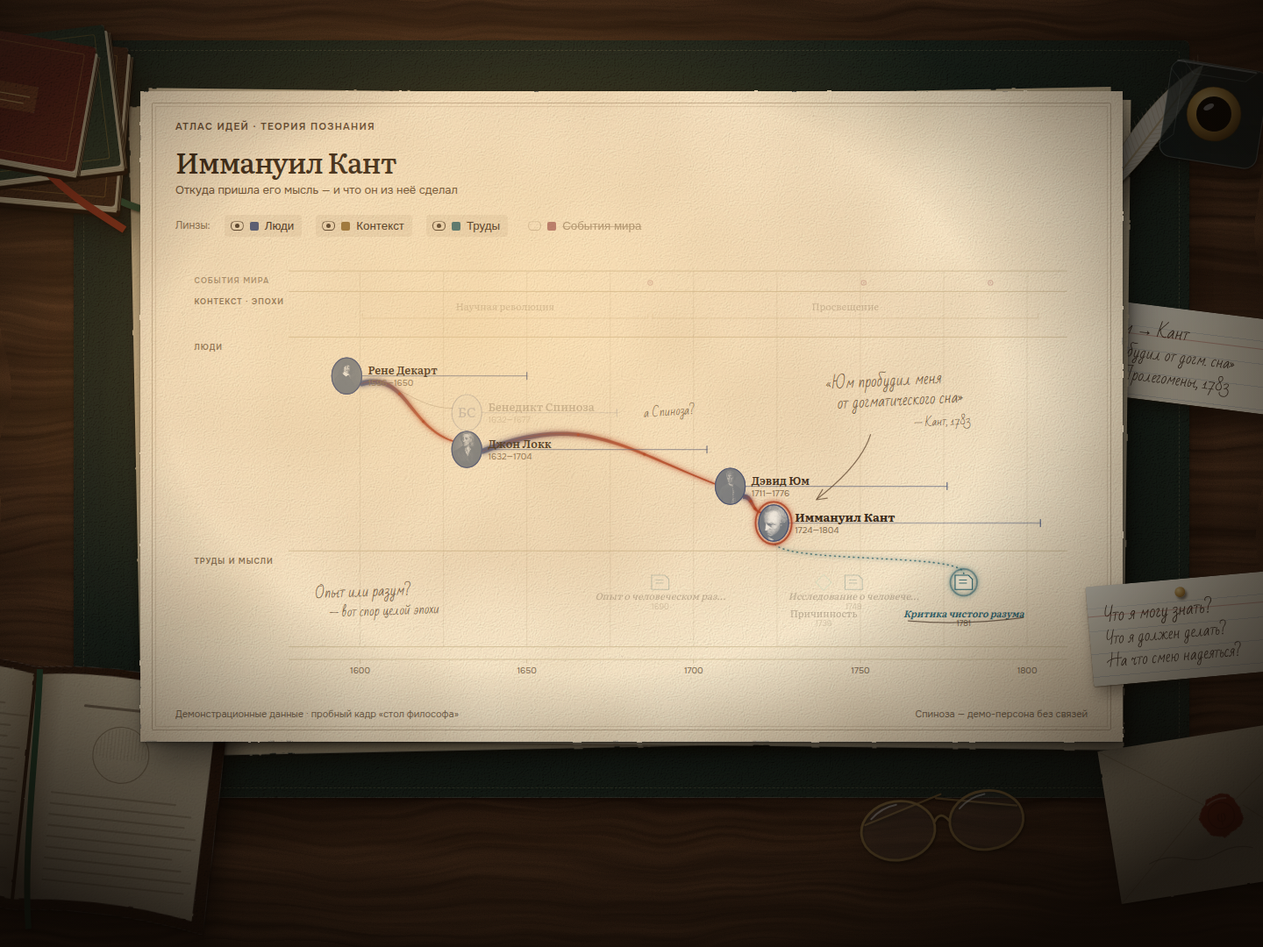
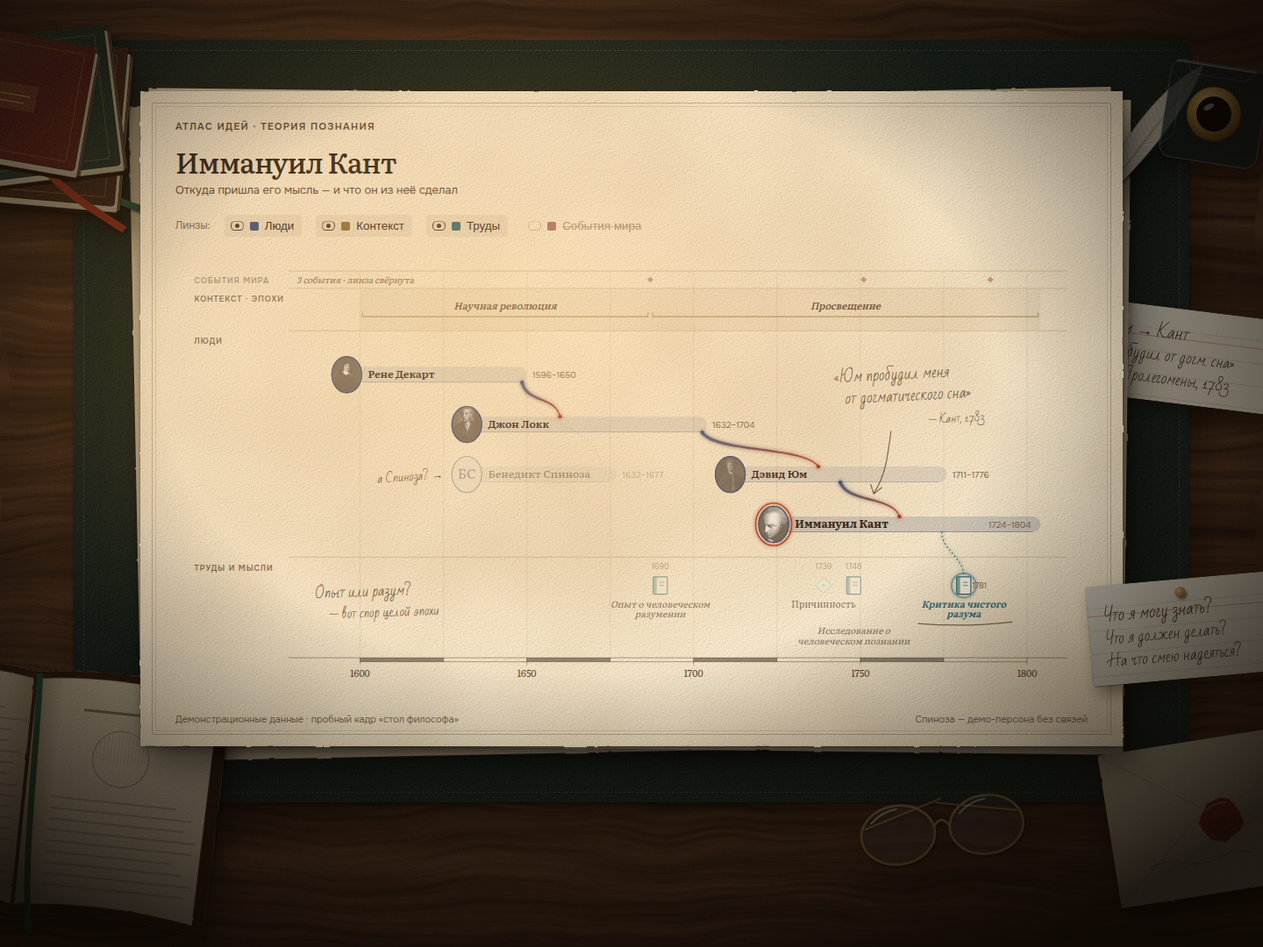
design(cycle-1): ленты Пристли, влияния между лентами, гравированная линейка
Прогон 1 цикла доводки сцены «стол философа»: линии жизни → ленты с именем
внутри (текст больше не перечёркнут), влияния цепляются к лентам вне подписей,
упаковка дорожек по Пристли, значки-книги и перенос названий без коллизий,
масштабная линейка карты вместо двойной оси, читаемый контекст.
Проверка Playwright: 0 JS-ошибок, 0 пересечений подпись×линия. Журнал —
graph-page-qa/design-cycle-log.md.

diff --git a/docs/design/system/previews/graph-f02-lenses/desk-chart.js b/docs/design/system/previews/graph-f02-lenses/desk-chart.js
@@ -1,0 +1,165 @@
+/* Граф на рабочем листе сцены «стол философа». Статичный кадр: выбран Кант.
+   Линии жизни — ленты Пристли (имя внутри ленты), влияния цепляются к лентам вне подписей,
+   труды — значки книг с подписями без столкновений, ось — гравированная масштабная линейка. */
+(function(){
+  const NS='http://www.w3.org/2000/svg';
+  const W=1160,H=566,PLOT_L=150,PLOT_R=W-26,PLOT_W=PLOT_R-PLOT_L;
+  const Y0=1580,Y1=1812,X=y=>PLOT_L+(y-Y0)/(Y1-Y0)*PLOT_W;
+  const bands={
+    events:{top:28,bot:50,label:'События мира',collapsed:true},
+    eras:  {top:50,bot:104,label:'Контекст · эпохи'},
+    people:{top:104,bot:392,label:'Люди'},
+    works: {top:392,bot:520,label:'Труды и мысли'},
+  };
+  const SEL='kant';
+  const people=[
+    {id:'descartes',lane:0,name:'Рене Декарт',     mono:'РД',birth:1596,death:1650,portrait:'descartes.jpg'},
+    {id:'spinoza',lane:2,  name:'Бенедикт Спиноза',mono:'БС',birth:1632,death:1677,portrait:null},
+    {id:'locke',lane:1,    name:'Джон Локк',       mono:'ДЛ',birth:1632,death:1704,portrait:'locke.jpg'},
+    {id:'hume',lane:2,     name:'Дэвид Юм',        mono:'ДЮ',birth:1711,death:1776,portrait:'hume.jpg'},
+    {id:'kant',lane:3,     name:'Иммануил Кант',   mono:'ИК',birth:1724,death:1804,portrait:'kant.jpg'},
+  ];
+  const chain=new Set(['descartes','locke','hume','kant']);
+  const influences=[
+    {a:'descartes',b:'locke',active:true},{a:'locke',b:'hume',active:true},
+    {a:'hume',b:'kant',active:true},{a:'descartes',b:'spinoza',active:false},
+  ];
+  const works=[
+    {id:'essay',title:'Опыт о человеческом разумении',year:1690,author:'locke',kind:'work'},
+    {id:'causality',title:'Причинность',year:1739,author:'hume',kind:'concept'},
+    {id:'enquiry',title:'Исследование о человеческом познании',year:1748,author:'hume',kind:'work'},
+    {id:'critique',title:'Критика чистого разума',year:1781,author:'kant',kind:'work',active:true},
+  ];
+  const eras=[{label:'Научная революция',from:1600,to:1687},{label:'Просвещение',from:1687,to:1804}];
+  const events=[{year:1687},{year:1751},{year:1789}];
+
+  const RX=19,RY=23,BAND=20;
+  const S=(t,a,txt)=>{const e=document.createElementNS(NS,t);for(const k in a)e.setAttribute(k,a[k]);if(txt!=null)e.textContent=txt;return e;};
+  const svg=document.getElementById('svg');svg.setAttribute('viewBox',`0 0 ${W} ${H}`);
+  // упаковка дорожек по Пристли: не пересекающиеся во времени жизни делят дорожку
+  const LANES=Math.max(...people.map(p=>p.lane))+1;
+  const laneY=i=>bands.people.top+24+(i+.5)*((bands.people.bot-bands.people.top-34)/LANES);
+  people.forEach((p,i)=>{p.y=laneY(p.lane);p.bx=X(p.birth);p.dx=X(p.death);});
+  const byId=Object.fromEntries(people.map(p=>[p.id,p]));
+
+  /* ---------- defs ---------- */
+  const defs=S('defs',{});
+  const duo=S('filter',{id:'duo'});duo.append(S('feColorMatrix',{type:'saturate',values:'0'}));
+  const ct=S('feComponentTransfer',{});[['R','.16 .95'],['G','.13 .92'],['B','.10 .84']].forEach(([c,v])=>ct.append(S('feFunc'+c,{type:'table',tableValues:v})));
+  duo.append(ct);defs.append(duo);
+  const glow=S('filter',{id:'glow',x:'-60%',y:'-60%',width:'220%',height:'220%'});
+  glow.append(S('feGaussianBlur',{in:'SourceGraphic',stdDeviation:'2.6',result:'b'}));
+  const fm=S('feMerge',{});fm.append(S('feMergeNode',{in:'b'}));fm.append(S('feMergeNode',{in:'SourceGraphic'}));glow.append(fm);defs.append(glow);
+  people.forEach(p=>{const cp=S('clipPath',{id:'clip-'+p.id});cp.append(S('ellipse',{cx:p.bx,cy:p.y,rx:RX,ry:RY}));defs.append(cp);});
+  svg.append(defs);
+
+  const L={};['grid','bands','eras','events','bandsP','threads','works','people','axis','notes'].forEach(k=>{L[k]=S('g',{});svg.append(L[k]);});
+
+  /* ---------- сетка времени и страты ---------- */
+  for(let y=1600;y<=1800;y+=25){const x=X(y);L.grid.append(S('line',{x1:x,y1:bands.events.top,x2:x,y2:bands.works.bot,class:'time-grid'}));}
+  ['events','eras','people','works'].forEach(k=>{const b=bands[k];
+    L.bands.append(S('line',{x1:PLOT_L-6,y1:b.top,x2:PLOT_R,y2:b.top,class:'band-sep'}));
+    L.bands.append(S('text',{x:24,y:b.top+(b.collapsed?15:17),class:'band-label','fill-opacity':b.collapsed?.7:1},b.label));});
+
+  /* ---------- эпохи: фон-территории, не приглушаем ---------- */
+  eras.forEach(e=>{const x1=X(e.from),x2=X(e.to),y=bands.eras.top+36;
+    L.eras.append(S('rect',{x:x1,y:bands.eras.top+1,width:x2-x1,height:bands.eras.bot-bands.eras.top-2,fill:'var(--context)',opacity:.07}));
+    L.eras.append(S('path',{d:`M${x1+3},${y-5} L${x1+3},${y} L${x2-3},${y} L${x2-3},${y-5}`,class:'era-span'}));
+    L.eras.append(S('text',{x:(x1+x2)/2,y:y-9,class:'era-text'},e.label));});
+
+  /* ---------- свёрнутая линза ---------- */
+  const ey=(bands.events.top+bands.events.bot)/2;
+  events.forEach(e=>{const x=X(e.year);L.events.append(S('path',{d:`M${x} ${ey-4} L${x+4} ${ey} L${x} ${ey+4} L${x-4} ${ey} Z`,fill:'var(--history)','fill-opacity':.45}));});
+  L.events.append(S('text',{x:PLOT_L+4,y:ey+4,class:'collapsed-note'},'3 события · линза свёрнута'));
+
+  /* ---------- люди: ленты Пристли ---------- */
+  people.forEach(p=>{
+    const sel=p.id===SEL,inC=chain.has(p.id);
+    const g=S('g',inC?{}:{class:'dim'});
+    g.append(S('rect',{x:p.bx,y:p.y-BAND/2,width:p.dx-p.bx,height:BAND,rx:BAND/2,fill:'var(--people)','fill-opacity':sel?.2:.12}));
+    g.append(S('path',{d:`M${p.bx+RX} ${p.y+BAND/2-.5} H${p.dx-BAND/2}`,stroke:'var(--people)','stroke-opacity':sel?.45:.28,'stroke-width':1}));
+    const name=S('text',{x:p.bx+RX+8,y:p.y+4.6,class:sel?'sel-name':'person-name'},p.name);g.append(name);
+    const yrIn=p.dx+74>W-4;g.append(S('text',{x:yrIn?p.dx-12:p.dx+7,y:p.y+4,class:'person-years','text-anchor':yrIn?'end':'start'},`${p.birth}–${p.death}`));
+    if(sel)g.append(S('ellipse',{cx:p.bx,cy:p.y,rx:RX+4,ry:RY+4,fill:'none',stroke:'var(--graph-selected)','stroke-width':1.8,'stroke-opacity':.85,filter:'url(#glow)'}));
+    g.append(S('ellipse',{cx:p.bx,cy:p.y,rx:RX,ry:RY,class:'medallion-ring'}));
+    if(p.portrait){g.append(S('image',{href:'../graph-f02/assets/'+p.portrait,x:p.bx-RX,y:p.y-RY,width:RX*2,height:RY*2,preserveAspectRatio:'xMidYMid slice','clip-path':`url(#clip-${p.id})`,filter:'url(#duo)'}));
+                   g.append(S('ellipse',{cx:p.bx,cy:p.y,rx:RX,ry:RY,fill:'none',stroke:'var(--people)','stroke-width':1.2}));}
+    else g.append(S('text',{x:p.bx,y:p.y+6,class:'monogram'},p.mono));
+    L.people.append(g);
+    p.labelEnd=p.bx+RX+8+name.getComputedTextLength();
+  });
+
+  /* ---------- влияния: от ленты учителя к ленте ученика, вне подписей ---------- */
+  const cub=(P,t)=>{const u=1-t;return{x:u*u*u*P[0].x+3*u*u*t*P[1].x+3*u*t*t*P[2].x+t*t*t*P[3].x,y:u*u*u*P[0].y+3*u*u*t*P[1].y+3*u*t*t*P[2].y+t*t*t*P[3].y};};
+  const tan=(P,t)=>{const u=1-t;return{x:3*u*u*(P[1].x-P[0].x)+6*u*t*(P[2].x-P[1].x)+3*t*t*(P[3].x-P[2].x),y:3*u*u*(P[1].y-P[0].y)+6*u*t*(P[2].y-P[1].y)+3*t*t*(P[3].y-P[2].y)};};
+  const ribbon=(P,w0,w1,N=28)=>{const a=[],b=[];for(let i=0;i<=N;i++){const t=i/N,p=cub(P,t),d=tan(P,t),l=Math.hypot(d.x,d.y)||1,nx=-d.y/l,ny=d.x/l,w=(w0*(1-t)+w1*t)/2;a.push(`${(p.x+nx*w).toFixed(1)},${(p.y+ny*w).toFixed(1)}`);b.unshift(`${(p.x-nx*w).toFixed(1)},${(p.y-ny*w).toFixed(1)}`);}return 'M'+a.join(' L')+' L'+b.join(' L')+' Z';};
+  window.deskLayout={people:byId,threads:{}};
+  influences.forEach((e,i)=>{
+    const s=byId[e.a],t=byId[e.b],recv=t.birth+20;
+    const xs=X(Math.min(s.death,Math.max(recv,s.birth+12)));
+    const xt=Math.max(X(Math.max(recv,t.birth)),t.labelEnd+14);
+    const A={x:Math.min(xs,s.dx-6),y:s.y+BAND/2},B={x:xt,y:t.y-BAND/2},dy=B.y-A.y;
+    const P=[A,{x:A.x+(B.x-A.x)*.12,y:A.y+dy*.6},{x:B.x-(B.x-A.x)*.12,y:B.y-dy*.6},B];
+    window.deskLayout.threads[e.a+'-'+e.b]=cub(P,.5);
+    if(!e.active){L.threads.append(S('path',{d:`M${A.x},${A.y} C${P[1].x},${P[1].y} ${P[2].x},${P[2].y} ${B.x},${B.y}`,fill:'none',stroke:'var(--graph-ink-muted)','stroke-opacity':.35,'stroke-width':1,'stroke-dasharray':'2 3'}));return;}
+    const gid='dg'+i,lg=S('linearGradient',{id:gid,gradientUnits:'userSpaceOnUse',x1:A.x,y1:A.y,x2:B.x,y2:B.y});
+    lg.append(S('stop',{offset:'0%','stop-color':'var(--people)','stop-opacity':.8}));lg.append(S('stop',{offset:'100%','stop-color':'var(--graph-selected)','stop-opacity':.95}));defs.append(lg);
+    const g=S('g',{filter:'url(#glow)'});
+    g.append(S('path',{d:ribbon(P,4,1.2),fill:`url(#${gid})`}));
+    g.append(S('circle',{cx:A.x,cy:A.y,r:2.4,fill:'var(--people)'}));
+    g.append(S('circle',{cx:B.x,cy:B.y,r:2.4,fill:'var(--graph-selected)'}));
+    L.threads.append(g);
+  });
+
+  /* ---------- труды: значки, подписи без столкновений ---------- */
+  const my=bands.works.top+36,rowsEnd=[[],[]];
+  const items=[...works].sort((a,b)=>a.year-b.year);
+  items.forEach(it=>{
+    const x=X(it.year),au=byId[it.author];
+    const g=S('g',it.active?{}:{class:'dim-soft'});
+    if(it.kind==='work'){
+      g.append(S('rect',{x:x-9,y:my-11,width:18,height:22,rx:1.5,class:'work-mark',...(it.active?{'stroke-width':1.6}:{})}));
+      g.append(S('rect',{x:x-9,y:my-11,width:4.5,height:22,rx:1.2,fill:'var(--texts)','fill-opacity':.55}));
+      g.append(S('path',{d:`M${x-1} ${my-4} h6 M${x-1} ${my} h6`,stroke:'var(--texts)','stroke-width':1,'stroke-opacity':.8}));
+    } else {
+      g.append(S('path',{d:`M${x} ${my-10} L${x+10} ${my} L${x} ${my+10} L${x-10} ${my} Z`,class:'concept-mark'}));
+      g.append(S('circle',{cx:x,cy:my,r:2,fill:'var(--ideas)'}));
+    }
+    g.append(it.active?S('text',{x:x+20,y:my+4,class:'work-year','text-anchor':'start'},it.year):S('text',{x,y:my-21,class:'work-year','text-anchor':'middle'},it.year));
+    // подпись: перенос в 2 строки по ширине 124
+    const t=S('text',{x,class:it.active?'work-active-title':(it.kind==='work'?'work-title':'concept-title'),'text-anchor':'middle'});g.append(t);
+    L.works.append(g);
+    const words=it.title.split(' '),lines=[''];
+    words.forEach(w=>{const cand=(lines[lines.length-1]+' '+w).trim();t.textContent=cand;if(t.getComputedTextLength()>150&&lines[lines.length-1])lines.push(w);else lines[lines.length-1]=cand;});
+    t.textContent='';let maxW=0;
+    lines.forEach((ln,k)=>{const sp=S('tspan',{x,dy:k?13:0},ln);t.append(sp);});
+    maxW=t.getBBox().width;
+    const x0=x-maxW/2-6,x1=x+maxW/2+6;
+    const row=rowsEnd[0].every(([a,b])=>x1<a||x0>b)?0:1;rowsEnd[row].push([x0,x1]);
+    t.setAttribute('y',my+28+row*34);[...t.children].forEach((sp,k)=>{if(!k)sp.setAttribute('y',my+28+row*34);});
+    it.x=x;it.my=my;it.titleBox=t;
+    if(it.active){
+      L.works.insertBefore(S('circle',{cx:x,cy:my,r:15.5,fill:'none',stroke:'var(--texts)','stroke-width':1.8,'stroke-opacity':.5,filter:'url(#glow)'}),g);
+      const A={x:Math.min(Math.max(x-28,au.labelEnd+10),au.dx-10),y:au.y+BAND/2},B={x,y:my-13};
+      L.threads.append(S('path',{d:`M${A.x},${A.y} C${A.x},${A.y+22} ${B.x},${B.y-22} ${B.x},${B.y}`,fill:'none',stroke:'var(--texts)','stroke-width':1.5,'stroke-opacity':.85,'stroke-dasharray':'1 4','stroke-linecap':'round',filter:'url(#glow)'}));
+    }
+  });
+
+  /* ---------- ось: гравированная масштабная линейка ---------- */
+  const ay=bands.works.bot;
+  L.axis.append(S('line',{x1:PLOT_L-6,y1:ay,x2:PLOT_R,y2:ay,stroke:'var(--graph-ink)','stroke-opacity':.55,'stroke-width':.8}));
+  L.axis.append(S('line',{x1:X(1600),y1:ay+5,x2:X(1800),y2:ay+5,stroke:'var(--graph-ink)','stroke-opacity':.55,'stroke-width':.8}));
+  for(let y=1600,k=0;y<1800;y+=25,k++){if(k%2===0)L.axis.append(S('rect',{x:X(y),y:ay,width:X(y+25)-X(y),height:5,fill:'var(--graph-ink)','fill-opacity':.5}));}
+  for(let y=1600;y<=1800;y+=25){const x=X(y),maj=y%50===0;L.axis.append(S('line',{x1:x,y1:ay,x2:x,y2:ay+(maj?9:5),stroke:'var(--graph-ink)','stroke-opacity':.55,'stroke-width':.8}));
+    if(maj)L.axis.append(S('text',{x,y:ay+24,class:'axis-year'},y));}
+
+  /* ---------- рукописные пометки философа (от вычисленной раскладки) ---------- */
+  const hand=(x,y,s,txt,rot)=>L.notes.append(S('text',{x,y,class:'hand','font-size':s,transform:`rotate(${rot} ${x} ${y})`},txt));
+  const hs=(d)=>L.notes.append(S('path',{d,class:'hand-stroke'}));
+  hand(838,170,19,'«Юм пробудил меня',-3);hand(852,197,19,'от догматического сна»',-3);hand(958,222,14,'— Кант, 1783',-3);
+  const m=window.deskLayout.threads['hume-kant'];
+  hs(`M${910} ${232} C${906} ${262} ${m.x+20} ${m.y-30} ${m.x+5} ${m.y-8}`);hs(`M${m.x+1} ${m.y-19} L${m.x+5} ${m.y-7} L${m.x+15} ${m.y-15}`);
+  const sp=byId.spinoza;L.notes.append(S('text',{x:sp.bx-30,y:sp.y+5,class:'hand','font-size':15,'text-anchor':'end',transform:`rotate(-4 ${sp.bx-30} ${sp.y+5})`},'а Спиноза? →'));
+  hand(178,bands.works.top+52,18,'Опыт или разум?',-2);hand(196,bands.works.top+78,16,'— вот спор целой эпохи',-2);
+  const cr=items.find(i=>i.active),bb=cr.titleBox.getBBox();hs(`M${bb.x-4} ${bb.y+bb.height+4} Q${bb.x+bb.width/2} ${bb.y+bb.height+9} ${bb.x+bb.width+6} ${bb.y+bb.height+2}`);
+})();

diff --git a/docs/design/system/previews/graph-f02-lenses/cycle/check.js b/docs/design/system/previews/graph-f02-lenses/cycle/check.js
@@ -1,0 +1,37 @@
+// Прогон цикла: рендер desk.html + проверки корректности. node cycle.js <tag>
+const {chromium}=require('playwright-core');const path=require('path');
+const URL='file://'+path.resolve('/root/ai-history-of-philosophy-platform/docs/design/system/previews/graph-f02-lenses/desk.html');
+const OUT=__dirname+'/out/';const tag=process.argv[2]||'run';
+(async()=>{
+ const b=await chromium.launch({executablePath:'/root/.cache/puppeteer/chrome/linux-148.0.7778.97/chrome-linux64/chrome',args:['--no-sandbox']});
+ const report={};
+ for(const [w,h] of [[1440,1080],[1280,900]]){
+  const p=await b.newPage({viewport:{width:w,height:h}});const errs=[];
+  p.on('pageerror',e=>errs.push('pageerror '+e.message));p.on('requestfailed',r=>errs.push('reqfail '+r.url()));
+  p.on('console',m=>{if(m.type()==='error')errs.push('console '+m.text());});
+  await p.goto(URL,{waitUntil:'networkidle'});
+  await p.evaluate(async()=>{await document.fonts.load('20px "Bad Script"','Юм');await document.fonts.ready;});
+  await p.waitForTimeout(600);
+  for(const theme of ['light','dark']){
+   await p.evaluate(t=>document.getElementById('app').dataset.theme=t,theme);await p.waitForTimeout(300);
+   await p.screenshot({path:`${OUT}${tag}-${w}-${theme}.png`,fullPage:true});
+  }
+  if(w===1440){
+   await p.evaluate(()=>document.getElementById('app').dataset.theme='light');await p.waitForTimeout(200);
+   const r=await p.locator('.chart').boundingBox();
+   const p2=await b.newPage({viewport:{width:w,height:h},deviceScaleFactor:2});
+   await p2.goto(URL,{waitUntil:'networkidle'});await p2.evaluate(async()=>{await document.fonts.load('20px "Bad Script"','Юм');await document.fonts.ready;});await p2.waitForTimeout(600);
+   await p2.screenshot({path:`${OUT}${tag}-chart-2x.png`,clip:{x:r.x,y:r.y,width:r.width,height:r.height},fullPage:true});await p2.close();
+  }
+  const geo=await p.evaluate(()=>{
+   const R=e=>e.getBoundingClientRect();const inter=(a,b,m=0)=>a.left<b.right-m&&b.left<a.right-m&&a.top<b.bottom-m&&b.top<a.bottom-m;
+   const texts=[...document.querySelectorAll('#svg text, .chart-notes text')].filter(t=>t.textContent.trim()&&getComputedStyle(t).opacity!=='0');
+   const tt=[];for(let i=0;i<texts.length;i++)for(let j=i+1;j<texts.length;j++){if(inter(R(texts[i]),R(texts[j]),1))tt.push(texts[i].textContent.trim().slice(0,22)+' ✕ '+texts[j].textContent.trim().slice(0,22));}
+   const lines=[...document.querySelectorAll('#svg line.lifeline, #svg .lifeline')];
+   const tl=[];texts.forEach(t=>lines.forEach(l=>{if(inter(R(t),R(l),0.5))tl.push(t.textContent.trim().slice(0,22));}));
+   return {fontBad:document.fonts.check('20px "Bad Script"','Юм'),hOverflow:document.documentElement.scrollWidth>innerWidth,textOverlaps:tt,textOnLifeline:[...new Set(tl)]};
+  });
+  report[w]={errors:errs,...geo};await p.close();
+ }
+ console.log(JSON.stringify(report,null,1));await b.close();
+})();

diff --git a/docs/design/system/previews/graph-f02-lenses/desk.css b/docs/design/system/previews/graph-f02-lenses/desk.css
@@ -81,3 +81,18 @@
 .scene[data-theme=dark] .prop.shadowed{filter:brightness(.72) drop-shadow(1px 2px 1.5px rgba(10,5,0,.6)) drop-shadow(8px 14px 14px rgba(8,4,0,.55))}
 .scene[data-theme=dark] .card{filter:brightness(.78)}
 .scene[data-theme=dark] .page{filter:brightness(.9)}
+/* Прогон 1: таймлайн, ленты Пристли, труды */
+.dim{opacity:.42}
+.dim-soft{opacity:.5}
+.collapsed-note{font:italic 400 11px Literata,Georgia,serif;fill:var(--graph-ink-muted)}
+.axis-year{font:400 12px Literata,Georgia,serif;font-variant-numeric:oldstyle-nums;fill:var(--graph-ink-secondary);text-anchor:middle}
+.scene .person-name{font:600 13.5px Literata,Georgia,serif;fill:var(--graph-ink)}
+.scene .sel-name{font:700 14px Literata,Georgia,serif;fill:var(--graph-ink)}
+.scene .person-years{font:400 11px Onest,Arial,sans-serif;fill:var(--graph-ink-muted)}
+.scene .era-text{font:italic 500 12.5px Literata,Georgia,serif;fill:var(--graph-ink-secondary)}
+.scene .era-span{stroke:var(--context);opacity:.6}
+.scene .work-year{font:400 10px Onest,Arial,sans-serif;fill:var(--graph-ink-muted);text-anchor:middle}
+.scene .work-title,.scene .concept-title{font:italic 500 11.5px Literata,Georgia,serif;fill:var(--graph-ink)}
+.scene .concept-title{font-style:normal}
+.scene .work-active-title{font:italic 600 12px Literata,Georgia,serif;fill:var(--texts)}
+.chart-notes{display:none}

diff --git a/docs/design/system/previews/graph-f02-lenses/desk.js b/docs/design/system/previews/graph-f02-lenses/desk.js
@@ -105,20 +105,4 @@
     svg.append(g);
   });
 
-  /* ---------- Рукописные пометки поверх графа (та же система координат, что #svg) ---------- */
-  const chart=document.querySelector('.chart');
-  if(chart){
-    const notes=S('svg',{class:'chart-notes',viewBox:'0 0 1160 560','aria-hidden':'true'});
-    const T=(x,y,s,txt,rot)=>notes.append(S('text',{x,y,class:'hand','font-size':s,transform:rot?`rotate(${rot} ${x} ${y})`:''},txt));
-    T(828,178,19,'«Юм пробудил меня',-3);
-    T(842,203,19,'от догматического сна»',-3);
-    T(940,226,14,'— Кант, 1783',-3);
-    notes.append(S('path',{d:'M884 236 C876 262 852 290 816 318',class:'hand-stroke'}));
-    notes.append(S('path',{d:'M823 306 L815 319 L829 317',class:'hand-stroke'}));
-    T(596,214,15,'а Спиноза?',-4);
-    T(178,444,18,'Опыт или разум?',-2);
-    T(196,468,16,'— вот спор целой эпохи',-2);
-    notes.append(S('path',{d:'M932 473 Q1004 479 1078 469',class:'hand-stroke'}));
-    chart.append(notes);
-  }
 })();

diff --git a/docs/design/system/previews/graph-f02-lenses/desk.html b/docs/design/system/previews/graph-f02-lenses/desk.html
@@ -121,7 +121,7 @@
 
   <div class="lamp" aria-hidden="true"></div>
 </div>
-<script src="trial.js"></script>
+<script src="desk-chart.js"></script>
 <script src="desk.js"></script>
 </body>
 </html>

diff --git a/docs/design/features/graph-page-qa/design-cycle-log.md b/docs/design/features/graph-page-qa/design-cycle-log.md
@@ -1,0 +1,44 @@
+# Журнал цикла визуальной доводки — сцена «стол философа»
+
+Инструкция: `/root/design-cycle.md` (до 5 прогонов: проверка в Playwright → улучшения → документ →
+правки + проверка корректности; коммит и пуш после каждого прогона).
+
+**Объект цикла:** `docs/design/system/previews/graph-f02-lenses/desk.html` — текущий макет со столом и
+линзами. В инструкции указан `graph-f02/index.html`, но направления цикла (связи в линзах, страты,
+таймлайн) относятся к макету с линзами; старый `graph-f02` (35/35) не трогаем.
+
+**Проверка:** Playwright (`playwright-core`) + headless Chromium. Скрипт рендерит 1440×1080 и 1280×900 в
+светлой и тёмной теме, кроп графа 2×, и проверяет корректность: JS-ошибки, упавшие запросы,
+загрузка рукописного шрифта, горизонтальный скролл, геометрию (пересечения подписей между собой и с
+линиями жизни). Kitesurf (преференция владельца для Playwright) не используется для визуальной
+проверки: экспериментальный движок, SVG-фильтры сцены там не гарантированы.
+
+**Референс таймлайна** `magisteria.ru/category/existentialism` недоступен с сервера и через WebFetch
+(таймаут, вероятно гео-блок); опираемся на Пристли «Chart of Biography» и Histomap. Нужен скриншот от владельца.
+
+---
+
+## Прогон 1 — раскладка людей, таймлайн, доп. информация
+
+| Нашёл | Решил | Почему |
+|---|---|---|
+| Линия жизни проходит прямо через имя каждого философа (зачёркнутый текст) | Линия жизни → **лента Пристли**: мягкая заливка рождение→смерть, имя внутри ленты, годы за её концом | Текст не пересекается линиями; жанр синхронологической карты Пристли |
+| Линии жизни «технические»: серая черта с засечкой, как размерная линия чертежа | Лента с тонкой нижней кромкой, выбранный — плотнее | Чернила на бумаге, а не CAD |
+| Пучок влияния жирный и идёт поверх подписи «Джон Локк»; связи цепляются к центрам медальонов под случайными углами | Влияние идёт **от ленты учителя** (конец жизни или момент «восприятия» ≈ 20 лет ученика) **к ленте ученика за его подписью**; толщина 4→1.2 px | Нити короткие, текут вперёд во времени, не трогают текст |
+| Нить Декарт→Локк пересекает подпись Спинозы | **Упаковка дорожек**: Спиноза (1632–1677) и Юм (1711–1776) делят дорожку; дорожек 4 вместо 5 | Приём Пристли; цепочка идёт по соседним дорожкам; больше воздуха |
+| Приглушённый контекст (эпохи, Спиноза, чужие труды) при 0.26 на фактурной бумаге — грязные пятна | Эпохи — полноценный фон; «чужое» — 0.42–0.5 | Контекст должен читаться как фон, а не как смазанное |
+| Значки трудов — «иконки файлов» из UI | Закрытая книга сверху (корешок + строки), понятие — ромб-печать | Предметы стола, а не интерфейс |
+| Названия трудов обрезаны многоточием и налезают друг на друга | Перенос в 2 строки (ширина 150), ряды раскладываются по фактическим ширинам без столкновений; год мелко над значком | Полное название, ноль коллизий |
+| Двойная пустая линейка внизу (граница страты + ось) | Одна **гравированная масштабная линейка карты**: двойная черта, чередующиеся заливки по 25 лет, годы старостильными цифрами Literata | Картографический приём вместо UI-оси |
+| Свёрнутая линза — две линии и три точки | Ромбы-события + подпись «3 события · линза свёрнута» | Понятно, что слой есть, но скрыт |
+| Годы Канта упираются в край листа; год «1781» перечёркнут нитью; черта под «Критикой» перечёркивает год | Годы внутри конца ленты, если не влезают; у выбранного труда год сбоку; рукописные пометки считаются от раскладки | Ничего не режется и не перечёркивается |
+
+**Техника:** граф сцены вынесен в `desk-chart.js` (утверждённый ранее кадр `trial.html` не тронут).
+
+**Проверка корректности:** JS-ошибок 0, упавших запросов 0, Bad Script загружен, горизонтального
+скролла нет (1440 и 1280, light/dark), пересечений «подпись × линия жизни» 0, пересечений подписей
+данных 0. Остаются 3 «пересечения» строк рукописных заметок — это повёрнутые рамки соседних строк,
+визуально строки не касаются (проверено на кропе 2×).
+
+**На следующие прогоны:** связи стали тихими (прогон 2 — стиль связей и линзы); переключатели линз —
+UI-«таблетки» (прогон 3 — структура вокруг графа); граф мелковат относительно листа (прогон 4).
